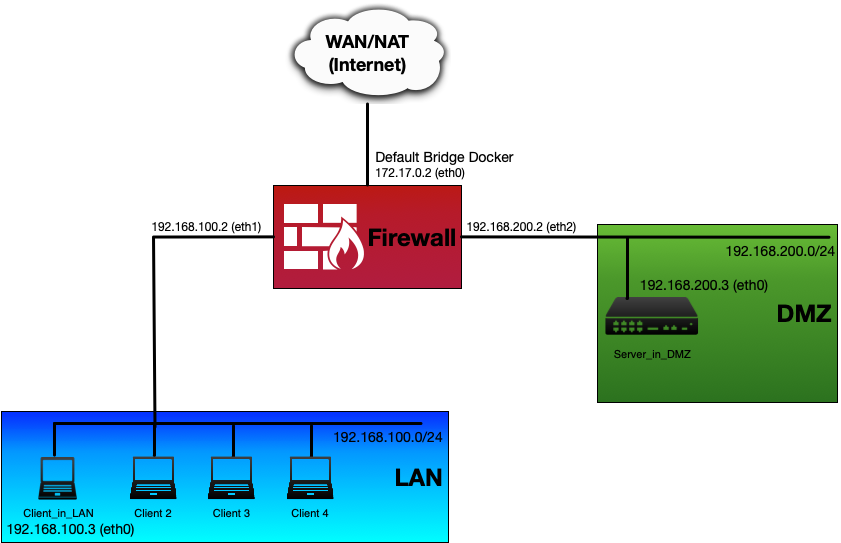
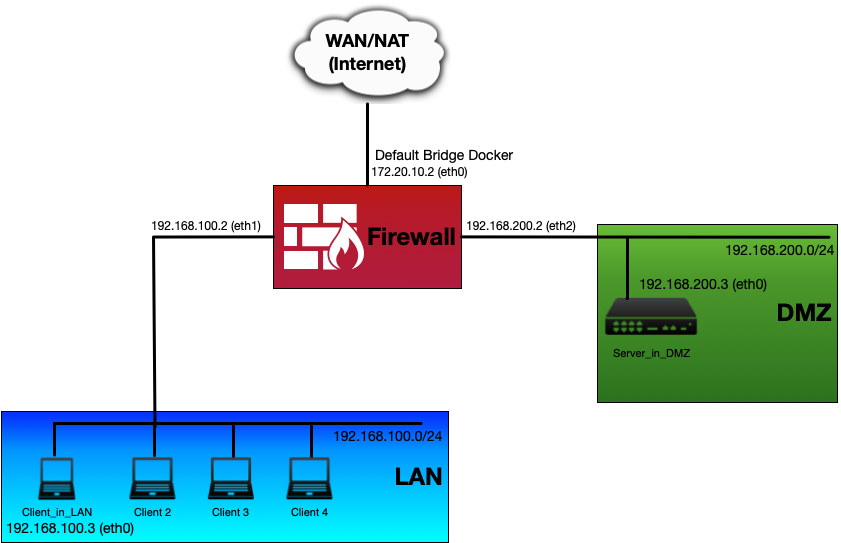
Fix network interfaces

diff --git a/README.md b/README.md
@@ -281,14 +281,14 @@ On va fournir une route vers l'internet à travers le firewall aux deux réseaux
 ```bash
 nft add table nat
 nft 'add chain nat postrouting { type nat hook postrouting priority 100 ; }'
-nft add rule nat postrouting masquerade
+nft add rule nat postrouting meta oifname "eth0" masquerade
 ```
 
-La dernière commande `nftables` définit une règle dans le tableau NAT qui permet la redirection de ports et donc, l'accès à l'Internet pour les deux autres machines.
+La dernière commande `nftables` définit une règle dans le tableau NAT qui permet la redirection de ports et donc, l'accès à l'Internet pour les deux autres machines à travers l'interface eth0 qui est connectée au WAN.
 
 
 <ol type="a" start="2">
-  <li>Quelle est l'utilité des de la première commande ? 
+  <li>Quelle est l'utilité de la première commande ? 
   </li>                                  
 </ol> 
 
@@ -299,7 +299,7 @@ La dernière commande `nftables` définit une règle dans le tableau NAT qui per
 ---
 
 <ol type="a" start="3">
-  <li>Quelle est l'utilité des de la deuxième commande ? Expliquer chacun des paramètres.
+  <li>Quelle est l'utilité de la deuxième commande ? Expliquer chacun des paramètres.
   </li>                                  
 </ol> 
 
@@ -308,7 +308,6 @@ La dernière commande `nftables` définit une règle dans le tableau NAT qui per
 **Réponse :**
 
 ---
-
 
 
 Cette autre commande démarre le service SSH du serveur :
